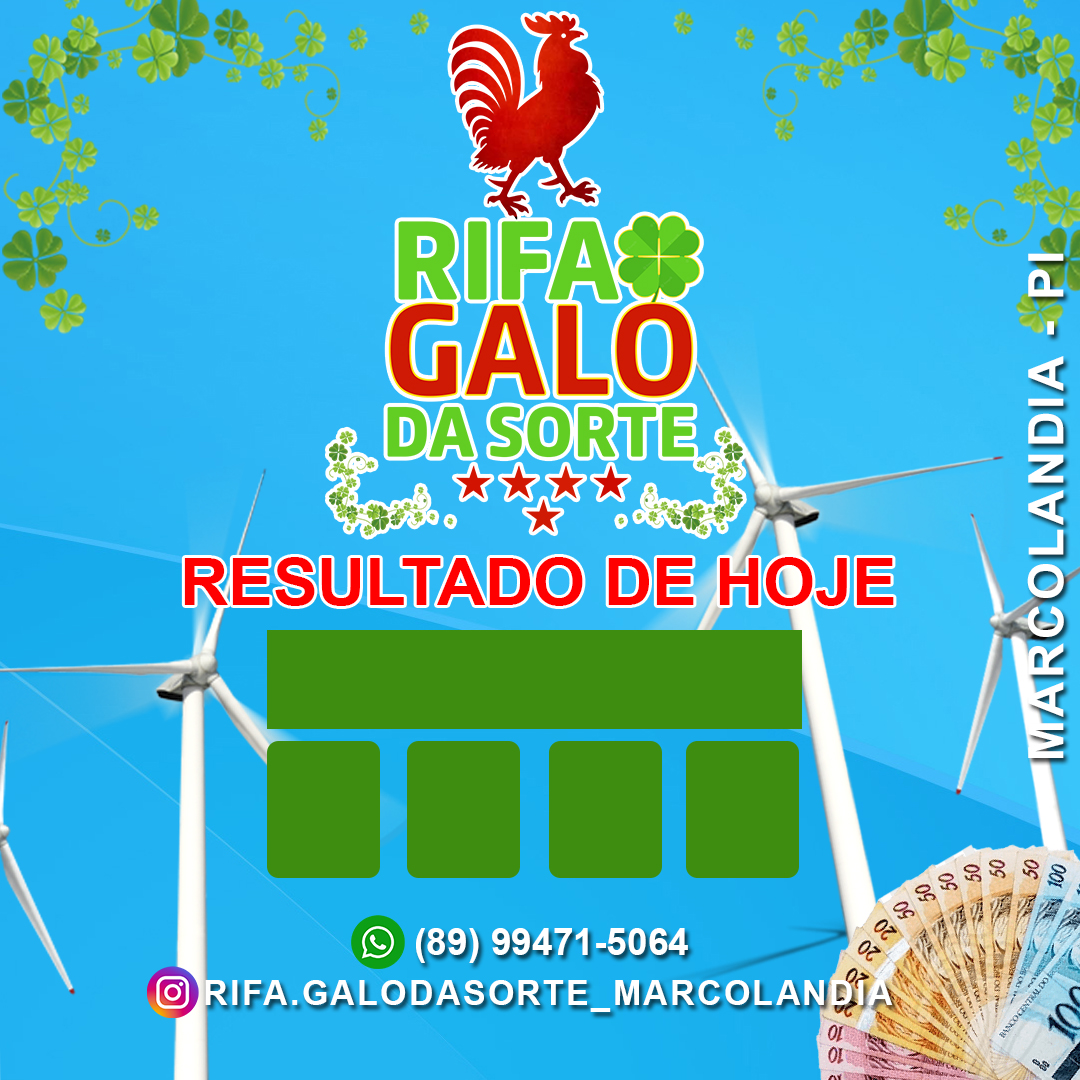
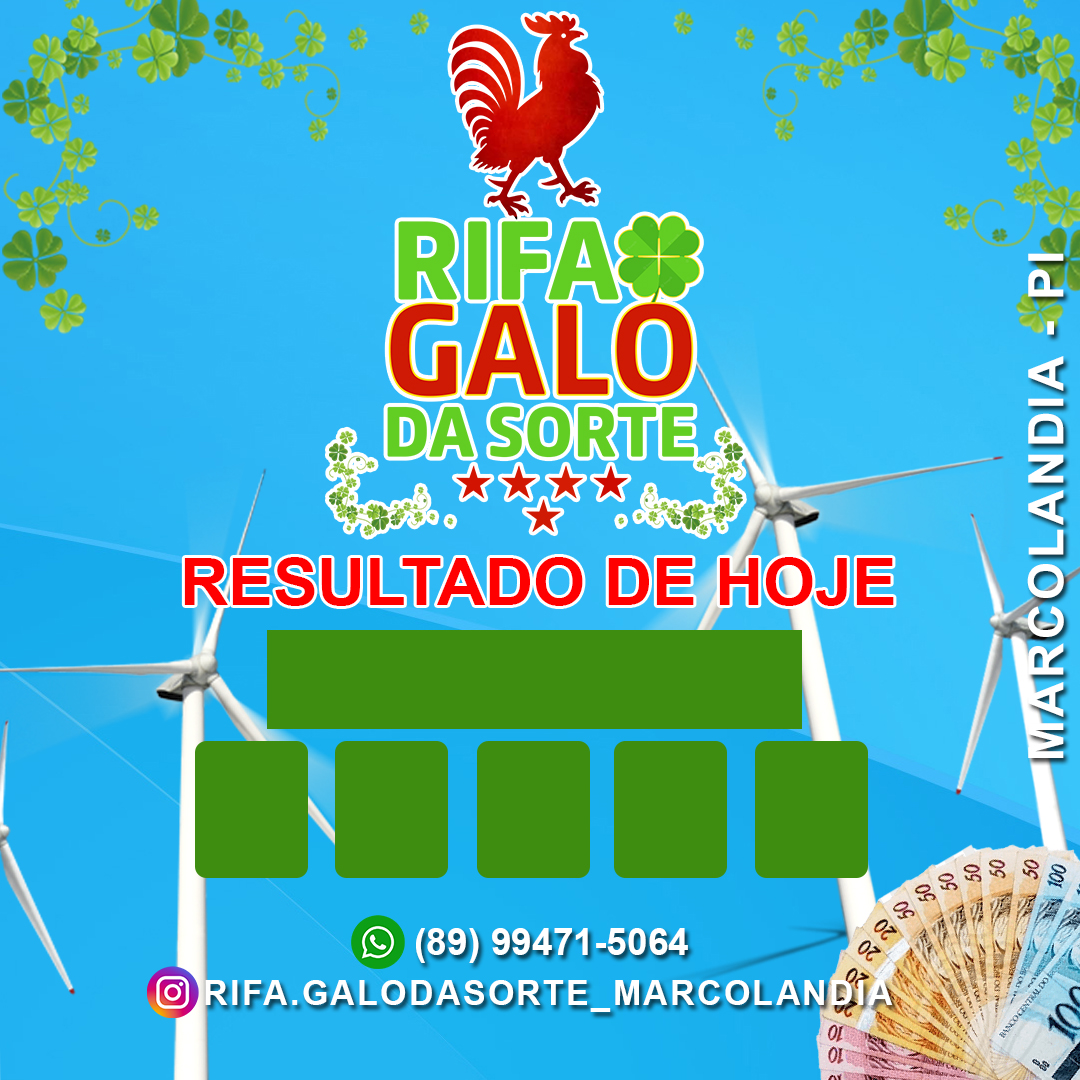
hotfix para 5 milhares marcolandia

diff --git a/scripts/marcolandia/script.js b/scripts/marcolandia/script.js
@@ -71,6 +71,7 @@ $( "#btnSubmit" ).click(function() {
   const n2 = $("#number2").val();
   const n3 = $("#number3").val();
   const n4 = $("#number4").val();
+  const n5 = $("#number5").val();
   const data = $("#data").val();
   
   context.clearRect(0, 0, canvas.width, canvas.height);
@@ -89,10 +90,11 @@ $( "#btnSubmit" ).click(function() {
   context.font = "160px arial";
   context.fillStyle = "white";
  
-  context.fillText(n1, 282, 825);
-  context.fillText(n2, 420, 825);
-  context.fillText(n3, 558, 825);
-  context.fillText(n4, 696, 825);
+  context.fillText(n1, 205, 825);
+  context.fillText(n2, 345, 825);
+  context.fillText(n3, 485, 825);
+  context.fillText(n4, 625, 825);
+  context.fillText(n5, 765, 825);
   context.restore();
 
 });
@@ -103,6 +105,7 @@ $( "#btnClear" ).click(function() {
   $("#number2").val('');
   $("#number3").val('');
   $("#number4").val('');
+  $("#number5").val('');
   $("#data").val('');
   context.clearRect(0, 0, canvas.width, canvas.height);
   context.drawImage(baseImage, 0, 0);

diff --git a/cidades/marcolandia/home.html b/cidades/marcolandia/home.html
@@ -96,6 +96,14 @@
           min="0"
           placeholder="Coloque o quarto numero"
         />
+        <input
+        name="number5"
+        id="number5"
+        type="number"
+        max="9"
+        min="0"
+        placeholder="Coloque o quinto numero"
+      />
         <div>
           <button id="btnSubmit" class="btn btnSave">Salvar</button>
           <button
